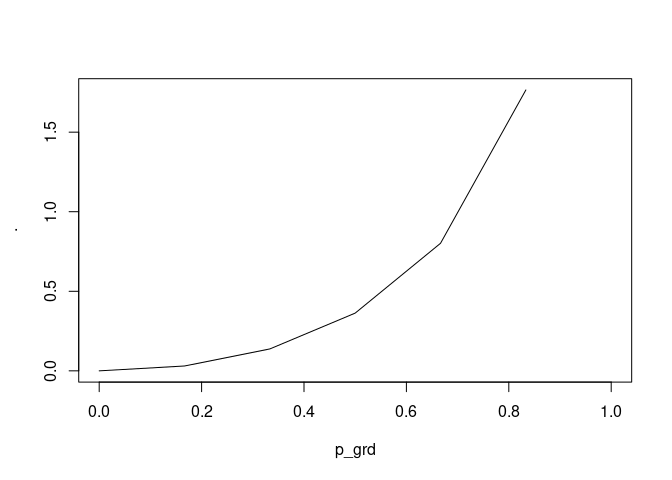
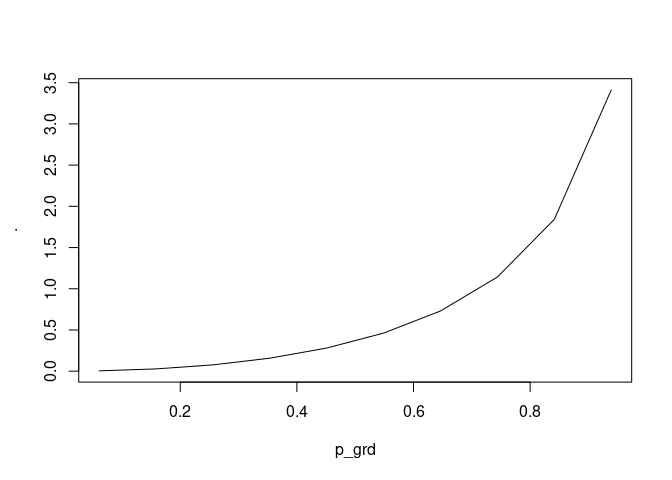
add KM and epsilon transformations

diff --git a/README.md b/README.md
@@ -52,7 +52,7 @@ In using and testing quantile function it is useful to have an
 equi-spaced grid of probabilities
 
 ``` r
-p_grd <- seq(0,1, length.out=7)
+p_grd <- ppoints(10)
 ```
 
 `{gilchrist}` is a special package! It uses magrittr pipe to operate not
@@ -73,7 +73,7 @@ s_exp
 #> function(u, ...){
 #>   -log(1-u)
 #> }
-#> <bytecode: 0x55a4822e3180>
+#> <bytecode: 0x556f8f4de9c8>
 #> <environment: namespace:gilchrist>
 ```
 
@@ -96,10 +96,12 @@ function in R. Note that `qexp` has a reciprocated scale.
 
 ``` r
 qf_exp(p_grd, lambda=1/10)
-#> [1]  0.000000  1.823216  4.054651  6.931472 10.986123 17.917595       Inf
+#>  [1]  0.6291383  1.7261274  2.9584538  4.3642733  6.0005676  7.9580133
+#>  [7] 10.3942342 13.6219681 18.4176989 27.9728133
 # compare to standard exponential quantile function. 
 qexp(p_grd, 1/10)
-#> [1]  0.000000  1.823216  4.054651  6.931472 10.986123 17.917595       Inf
+#>  [1]  0.6291383  1.7261274  2.9584538  4.3642733  6.0005676  7.9580133
+#>  [7] 10.3942342 13.6219681 18.4176989 27.9728133
 ```
 
 `{gilchrist}` has several basic (parameterless) functions that you can
@@ -133,9 +135,11 @@ qf_logistic <- s_exp %>%
   qff_decorate("mu", "s")
 
 qf_logistic(p_grd, mu=4, s=2)
-#> [1]      -Inf 0.7811242 2.6137056 4.0000000 5.3862944 7.2188758       Inf
+#>  [1] -1.4687350  0.6616857  1.8672971  2.7940078  3.6085108  4.3914892
+#>  [7]  5.2059922  6.1327029  7.3383143  9.4687350
 qlogis(p_grd, 4, 2)
-#> [1]      -Inf 0.7811242 2.6137056 4.0000000 5.3862944 7.2188758       Inf
+#>  [1] -1.4687350  0.6616857  1.8672971  2.7940078  3.6085108  4.3914892
+#>  [7]  5.2059922  6.1327029  7.3383143  9.4687350
 ```
 
 ### Flattened Skew-Logistic
@@ -159,9 +163,11 @@ qf_fsld <- s_exp %>%
   qff_decorate(nm_location="alpha", nm_scale="beta")
 
 qf_fsld(p_grd, delta=0.21, alpha=4, beta=2, k=1)
-#> [1]     -Inf 1.578928 3.101155 4.195949 5.154116 6.131138      Inf
+#>  [1] -0.2713295  1.4795741  2.4841792  3.2483276  3.8970968  4.4837079
+#>  [7]  5.0396856  5.5924918  6.1837420  6.9535031
 qpd::qfsld(p_grd, bt=2, k=1, dlt=0.21, a=4)
-#> [1]     -Inf 1.578928 3.101155 4.195949 5.154116 6.131138      Inf
+#>  [1] -0.2713295  1.4795741  2.4841792  3.2483276  3.8970968  4.4837079
+#>  [7]  5.0396856  5.5924918  6.1837420  6.9535031
 ```
 
 ### Weibull
@@ -178,9 +184,11 @@ qf_weibull <- s_exp %>%
   qtr_power("k", .invert = TRUE) %>% 
   qff_scale("lambda")
 qf_weibull(p_grd, lambda=2, k=4)
-#> [1] 0.000000 1.306891 1.595947 1.824889 2.047581 2.313928      Inf
+#>  [1] 1.001651 1.289134 1.475014 1.625579 1.760265 1.888997 2.019427 2.160678
+#>  [9] 2.329908 2.586509
 qweibull(p_grd, scale=2,  shape=4)
-#> [1] 0.000000 1.306891 1.595947 1.824889 2.047581 2.313928      Inf
+#>  [1] 1.001651 1.289134 1.475014 1.625579 1.760265 1.888997 2.019427 2.160678
+#>  [9] 2.329908 2.586509
 ```
 
 Therefore, you can compose new quantile functions following Gilchrist
@@ -334,18 +342,105 @@ Raising the parameter to the power of quantile function.
 Applying arbitrary function (without parameters) to the quantile
 function `qff_fun` or the depth `ptr_fun`.
 
+Lets create a U-shaped Chen distribution described in Chen (2000). The
+quantile function of Chen ditribution is
+
+$$
+Q(u)=\left[\ln\left(1-\frac{\ln(1-u)}{\lambda}\right)\right]^{1/\beta}
+$$
+
+``` r
+qchen <- s_exp %>% 
+  qff_scale("lambda", .invert = TRUE) %>% 
+  qtr_fun(log1p) %>% 
+  qtr_power("beta", .invert = TRUE)
+```
+
 ### Shift/scale/power by a constant
 
 The transformations where the shift, scale or power is a constant rather
 than a parameter.
 
+### Kavya-Manoharan (KM) p-transformation
+
+The p-transformation proposed in Kavya and Manoharan (2021)
+
+$$
+T(y)=-\ln\left(1-y\frac{e-1}{e}\right)
+$$
+
+The authors apply this p-transformation to Weibuill distribution
+
+``` r
+qf_KMweibull <- s_exp %>% 
+  qtr_power("k", .invert = TRUE) %>% 
+  qff_scale("lambda") %>% 
+  ptr_KM()
+
+qf_KMweibull(p_grd, lambda=3, k=4)%>%
+  plot(p_grd,., type="l")
+```
+
+<img src="man/figures/README-unnamed-chunk-17-1.png" width="100%" />
+
+### $\varepsilon$-transformation
+
+Unit transformation described by Bakouch et al. (2023).
+
+$$
+T(x)=\frac{(1+x)^{1/\beta}-1}{(1+x)^{1/\beta}+1}
+$$
+
+In particular they present the unit exponential QF as
+
+``` r
+q_uexp <- function(u, lambda, beta){
+  nm <- (1+qexp(u, lambda))^(1/beta)-1
+  den <- (1+qexp(u, lambda))^(1/beta)+1 
+  nm/den
+}
+
+pgrd <- ppoints(10)
+
+quexp <- s_exp %>%
+  qff_scale("lambda", .invert=TRUE) %>%
+  qtr_epsilon("beta")
+
+all.equal(
+ quexp(pgrd, lambda=4, beta=3),
+ q_uexp(pgrd, 4, 3)
+ )
+#> [1] TRUE
+```
+
+Let’s create somewhat more complex unit distribution
+
 ## References
 
 <div id="refs" class="references csl-bib-body hanging-indent">
 
+<div id="ref-bakouch2023UnitExponentialProbability" class="csl-entry">
+
+Bakouch, Hassan, Tassaddaq Hussain, Marina Tošić, Vladica Stojanović,
+and Najla Qarmalah. 2023. “Unit Exponential Probability Distribution:
+Characterization and Applications in Environmental and Engineering Data
+Modelling.” Preprint. Computer Science and Mathematics.
+<https://doi.org/10.20944/preprints202308.0778.v1>.
+
+</div>
+
+<div id="ref-chen2000NewTwoparameterLifetime" class="csl-entry">
+
+Chen, Zhenmin. 2000. “A New Two-Parameter Lifetime Distribution with
+Bathtub Shape or Increasing Failure Rate Function.” *Statistics &
+Probability Letters* 49 (2): 155–61.
+<https://doi.org/10.1016/S0167-7152(00)00044-4>.
+
+</div>
+
 <div id="ref-davies2016WarrenGilchrist19322015" class="csl-entry">
 
-Davies, Neville. 2016. “Warren g. Gilchrist, 1932-2015.” *Journal of the
+Davies, Neville. 2016. “Warren G. Gilchrist, 1932-2015.” *Journal of the
 Royal Statistical Society. Series A (Statistics in Society)* 179 (3):
 872–74. <https://doi.org/10.1111/rssa.12243>.
 
@@ -356,6 +451,15 @@ class="csl-entry">
 
 Gilchrist, Warren. 2000. *Statistical Modelling with Quantile
 Functions*. Boca Raton: Chapman & Hall/CRC.
+
+</div>
+
+<div id="ref-kavya2021ParsimoniousModelsLifetimes" class="csl-entry">
+
+Kavya, P., and M. Manoharan. 2021. “Some Parsimonious Models for
+Lifetimes and Applications.” *Journal of Statistical Computation and
+Simulation* 91 (18): 3693–3708.
+<https://doi.org/10.1080/00949655.2021.1946064>.
 
 </div>
 
